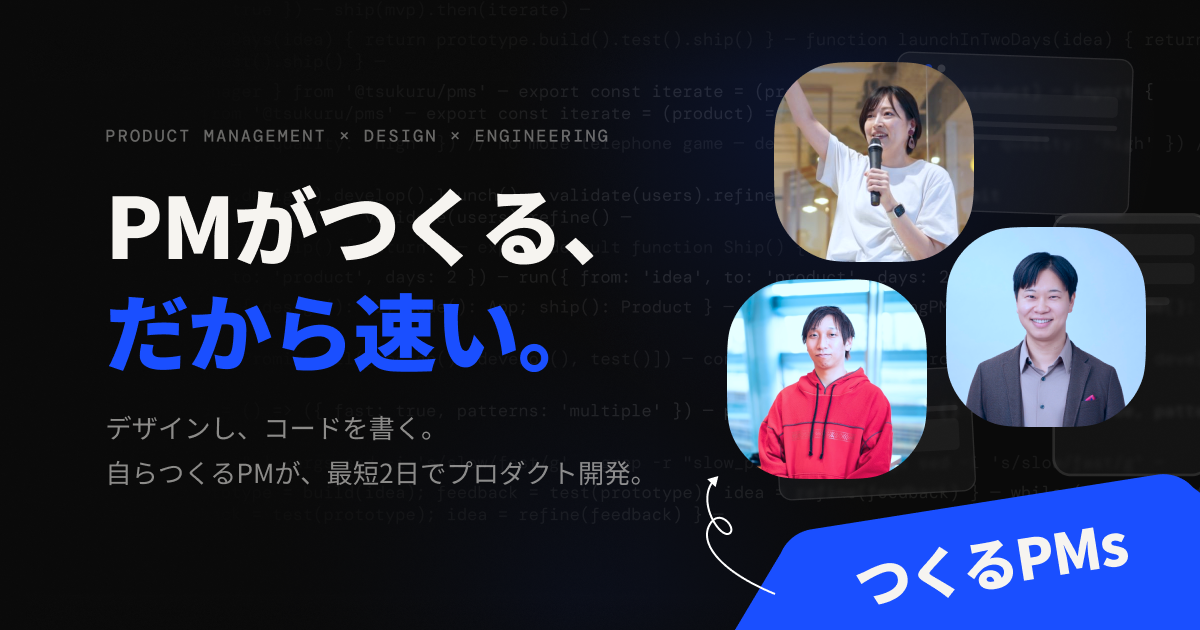
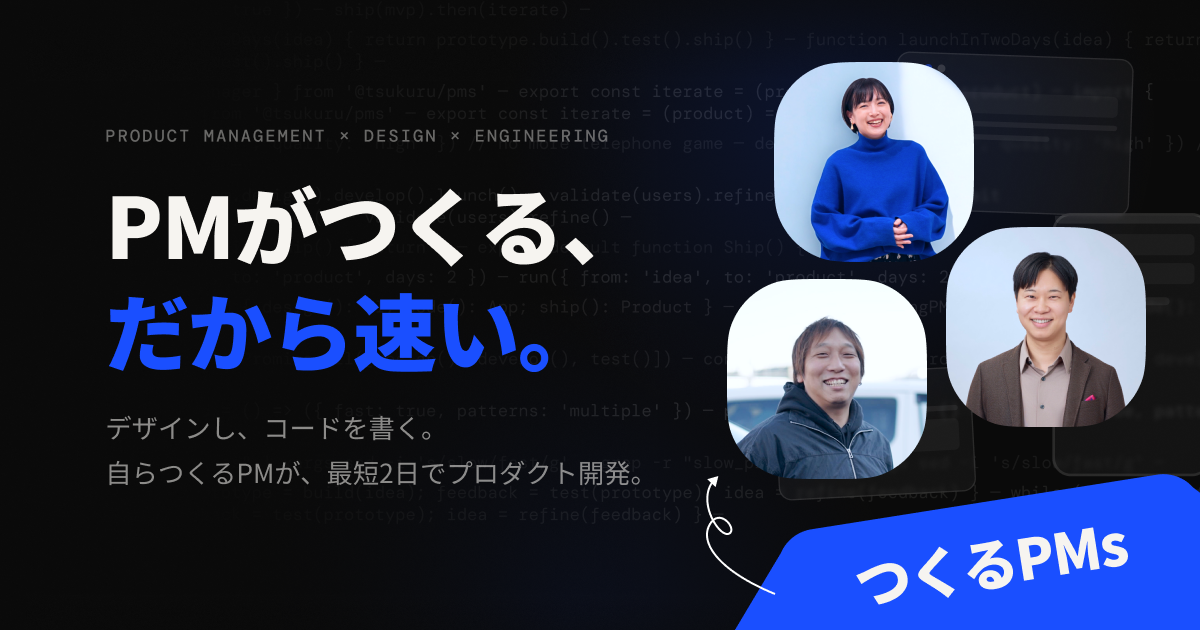
update initial lp

Changed region(s): [[0.5858, 0.0905, 0.9558, 0.7841]]

diff --git a/index.html b/index.html
@@ -417,7 +417,7 @@
                     <div class="member-top"><img class="member-avatar" src="img-hirono.jpg" alt="広野 萌">
                         <div>
                             <div class="member-name">広野 萌</div>
-                            <div class="member-tagline">デザイン × プロダクト × 金融</div>
+                            <div class="member-tagline">デザイン × プロダクト × UX</div>
                             <div class="member-titles">株式会社フォルテ代表取締役 / 一般社団法人デザインシップ代表理事</div>
                         </div>
                     </div>
@@ -433,25 +433,6 @@
                         </svg>@hajipion</a>
                 </div>
                 <div class="member-card">
-                    <div class="member-top"><img class="member-avatar" src="img-matsutate.jpg" alt="松館 大輝">
-                        <div>
-                            <div class="member-name">松館 大輝</div>
-                            <div class="member-tagline">エンジニアリング × モバイル × 技術戦略</div>
-                            <div class="member-titles">デジタル庁エンジニアユニット長 / 一般社団法人トライスイフト理事</div>
-                        </div>
-                    </div>
-                    <p class="member-bio">学生時代からiOSアプリ開発を始め、スタートアップ数社で企画から保守まで一気通貫で経験した後に独立。国際カンファレンス「try! Swift
-                        Tokyo」メインオーガナイザー。FOLIO、デジタル庁を経て、タイミー・TVer・chocoZAP（RIZAP）など多数の企業で技術顧問・アドバイザリーを歴任。著書「iOSアプリ設計パターン入門」。
-                    </p>
-                    <div class="member-tags"><span class="member-tag">iOS / モバイル</span><span
-                            class="member-tag">技術戦略</span><span class="member-tag">アーキテクチャ設計</span><span
-                            class="member-tag">技術顧問</span></div><a href="https://x.com/d_date" target="_blank"
-                        rel="noopener" class="member-x"><svg viewBox="0 0 24 24">
-                            <path
-                                d="M18.244 2.25h3.308l-7.227 8.26 8.502 11.24H16.17l-5.214-6.817L4.99 21.75H1.68l7.73-8.835L1.254 2.25H8.08l4.713 6.231zm-1.161 17.52h1.833L7.084 4.126H5.117z" />
-                        </svg>@d_date</a>
-                </div>
-                <div class="member-card">
                     <div class="member-top"><img class="member-avatar" src="img-maidol.jpg" alt="浪川 舞（まいどる）">
                         <div>
                             <div class="member-name">浪川 舞（まいどる）</div>
@@ -460,8 +441,7 @@
                         </div>
                     </div>
                     <p class="member-bio">
-                        武蔵野音楽大学ピアノ専攻卒業後、ヤマハ特約楽器店で音楽教室の運営企画に従事。エンジニアへ転向し証券システムやIoT事業など複数プロジェクトの開発を経験。合同会社PeerQuestを設立し、毎月100名超が参加する「開発PM勉強会」の主催やPMコミュニティ「PM
-                        Club」の共同運営など、PM育成に尽力。複数企業でPM顧問を務める。</p>
+                        武蔵野音楽大学ピアノ専攻卒業後、ヤマハ特約楽器店で音楽教室の運営企画に従事。2014年にSIerへ転向後、証券システムやビッグデータ解析等のプロジェクトでバックエンドエンジニア兼PMを経験し2019年に合同会社PeerQuestを設立。スタートアップの0→1立ち上げ゙から大企業の業務システムまで幅広いノウハウを生かし、毎月100名超が参加する「開発PM勉強会」の主催や大手企業向けDX人材育成研修などのPM育成を支援する。</p>
                     <div class="member-tags"><span class="member-tag">プロダクトマネジメント</span><span
                             class="member-tag">プロジェクトマネジメント</span><span class="member-tag">内製化支援</span><span
                             class="member-tag">アジャイルコーチ</span></div><a href="https://x.com/maidol_28" target="_blank"
@@ -469,6 +449,24 @@
                             <path
                                 d="M18.244 2.25h3.308l-7.227 8.26 8.502 11.24H16.17l-5.214-6.817L4.99 21.75H1.68l7.73-8.835L1.254 2.25H8.08l4.713 6.231zm-1.161 17.52h1.833L7.084 4.126H5.117z" />
                         </svg>@maidol_28</a>
+                </div>
+                <div class="member-card">
+                    <div class="member-top"><img class="member-avatar" src="img-date.jpg" alt="松館 大輝">
+                        <div>
+                            <div class="member-name">松館 大輝</div>
+                            <div class="member-tagline">エンジニアリング × モバイル × 技術戦略</div>
+                            <div class="member-titles">ソフトウェアエンジニア / プロダクトマネージャー / 一般社団法人try Swift Tokyo 代表理事</div>
+                        </div>
+                    </div>
+                    <p class="member-bio">東京理科大学基礎工学部在学中よりiPhoneアプリを作り始める。FOLIO、カンカク、newmoなどのスタートアップでのiOSアプリの開発や、TVer、RIZAP、タイミーなどでの技術顧問など。デジタル庁エンジニアユニット長であり、「iPhoneのマイナンバーカード」の実現に寄与。プログラミング言語Swiftの国際カンファレンス「try! Swift Tokyo」の主宰。著書「iOSアプリ設計パターン入門」(PEAKS)
+                    </p>
+                    <div class="member-tags"><span class="member-tag">iOS / モバイル</span><span
+                            class="member-tag">技術戦略</span><span class="member-tag">アーキテクチャ設計</span><span
+                            class="member-tag">技術顧問</span></div><a href="https://x.com/d_date" target="_blank"
+                        rel="noopener" class="member-x"><svg viewBox="0 0 24 24">
+                            <path
+                                d="M18.244 2.25h3.308l-7.227 8.26 8.502 11.24H16.17l-5.214-6.817L4.99 21.75H1.68l7.73-8.835L1.254 2.25H8.08l4.713 6.231zm-1.161 17.52h1.833L7.084 4.126H5.117z" />
+                        </svg>@d_date</a>
                 </div>
             </div>
         </div>
